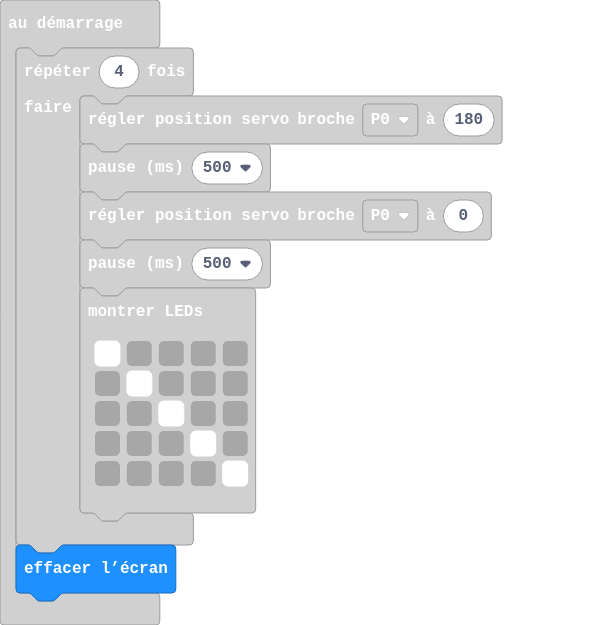
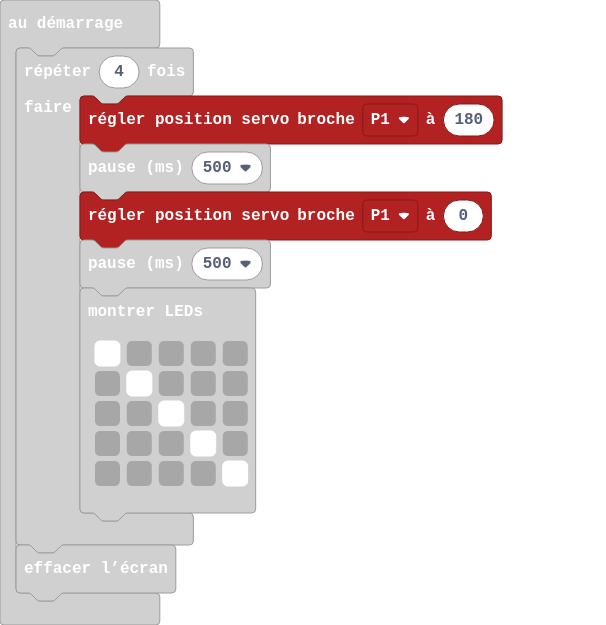
Mise à jour main.blocks, main.ts

Changed region(s): [[0.1188, 0.304, 0.8317, 0.3952], [0.1188, 0.152, 0.8317, 0.2432], [0.0, 0.8512, 0.297, 0.9728]]

diff --git a/main.ts b/main.ts
@@ -1,7 +1,7 @@
 for (let index = 0; index < 4; index++) {
-    pins.servoWritePin(AnalogPin.P0, 180)
+    pins.servoWritePin(AnalogPin.P1, 180)
     basic.pause(500)
-    pins.servoWritePin(AnalogPin.P0, 0)
+    pins.servoWritePin(AnalogPin.P1, 0)
     basic.pause(500)
     basic.showLeds(`
         # . . . .
